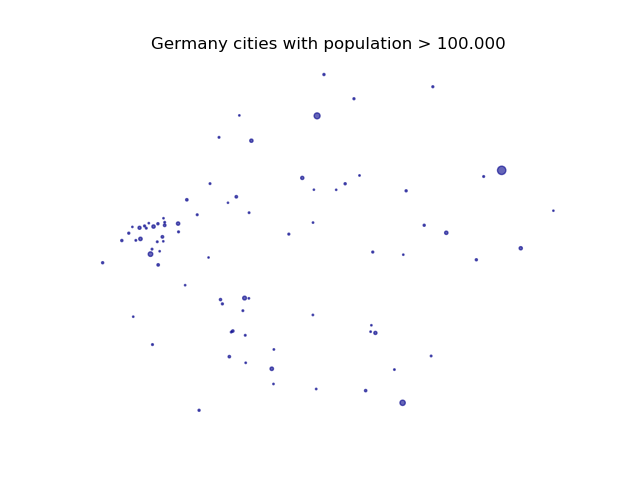
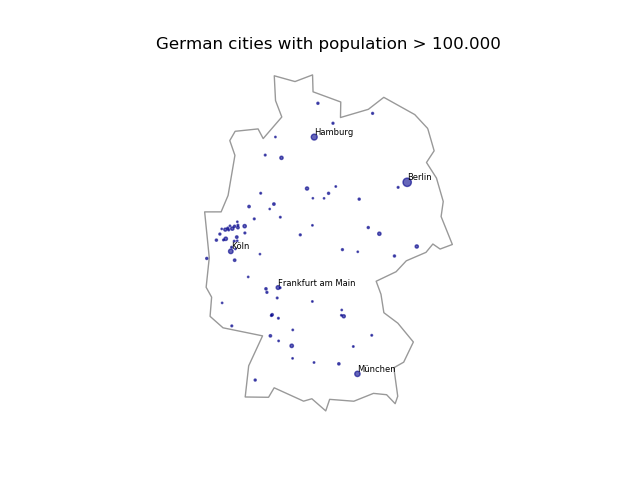
new plot in task 2 + comments

diff --git a/task_2/task_2.py b/task_2/task_2.py
@@ -1,5 +1,5 @@
 """
-Wikipedia's Table into pandas's dataframe and some visualization
+Wikipedia's Table into pandas's dataframe + geopandas's geodataframe and some visualization
 Taras Dubrava
 18.05.2020
 """
@@ -7,6 +7,7 @@ Taras Dubrava
 # imports
 import requests
 import pandas as pd
+import geopandas as gpd
 import matplotlib.pyplot as plt
 from bs4 import BeautifulSoup
 from geopy.geocoders import Nominatim
@@ -49,7 +50,7 @@ df['Bundesland'] = df['Bundesland'].apply(lambda x: ''.join(set(x.split(' '))))
 df['Name'] = df['Name'].str.replace(r'[\u00AD\d,-]+', '').str.strip()
 
 # geocoding addresses with Nominatim geocoder
-geolocator = Nominatim(user_agent='my-application', timeout=1)
+geolocator = Nominatim(user_agent='my-app', timeout=1)
 
 def geocoding(add):
     try:
@@ -64,8 +65,44 @@ df['lon'] = df['Name'].apply(lambda x: geocoding(x)[1])
 
 df['Bev2018'] = df['Bev2018'].str.replace('.', '').apply(pd.to_numeric)
 
-# visualization of data
-df[df['Bev2018'] > 100000].plot(kind="scatter", x="lon", y="lat", s=df['Bev2018']/100000, color='DarkBlue', marker="o", alpha=0.6)
-plt.title('Germany cities with population > 100.000')
+# Exporting dataframe as a csv file (when needed)
+# df.to_csv(r'D:\bayreuth\task_2\task_2_temporal.csv', index=False)
+# Reading a csv file as dataframe (when needed)
+# df = pd.read_csv('task_2_temporal.csv')
+
+# converting pandas's DataFrame into geopandas's GeoDataFrame
+gdf = gpd.GeoDataFrame(df, geometry=gpd.points_from_xy(df.lon, df.lat), crs="EPSG:4326")
+# getting a dataset from geopandas
+world = gpd.read_file(gpd.datasets.get_path('naturalearth_lowres'))
+
+# plotting germany
+ax = world[world.name == 'Germany'].plot(
+    color='white',
+    edgecolor='black',
+    alpha=0.4)
+
+# plotting data
+gdf[gdf['Bev2018'] > 100000].plot(ax=ax,
+                                  markersize=gdf['Bev2018']/100000,
+                                  color='DarkBlue',
+                                  marker="o",
+                                  alpha=0.6,
+                                  legend=True
+                                  )
+
+# labelling
+gdf = gdf.nlargest(5, ['Bev2018'])
+texts = []
+for x, y, label in zip(gdf.geometry.x, gdf.geometry.y, gdf["Name"]):
+    texts.append(plt.text(x,
+                          y,
+                          label,
+                          fontsize = 6,
+                          fontfamily='sans-serif',
+                          fontstyle='normal',
+                          horizontalalignment='left',
+                          verticalalignment='bottom'))
+
+plt.title('German cities with population > 100.000')
 plt.axis('off')
 plt.show()

diff --git a/task_2/test.py b/task_2/test.py
@@ -1,0 +1,9 @@
+import geopandas as gpd
+
+world = gpd.read_file(gpd.datasets.get_path('naturalearth_lowres'))
+list = world.name.to_list()
+for i in list:
+    if i.startswith("Si"):
+        print(i)
+singapore = world[world.name == 'Singapore']
+boundaries = singapore['geometry']

diff --git a/README.md b/README.md
@@ -53,13 +53,14 @@
 2. Simple web scraping of a page (related to geography) and its visualization.</br>
    *Used Data:*
      - Wikipedia Article "Liste der Großstädte in Deutschland",</br>https://de.wikipedia.org/wiki/Liste_der_Gro%C3%9Fst%C3%A4dte_in_Deutschland
+	 - GeoPandas Dataset 'naturalearth_lowres'
 
    *Used Software:*
-     - Python 3 (requests, beautifulsoup, pandas, geopy, matplotlib)
+     - Python 3 (requests, beautifulsoup, pandas, geopandas, geopy, matplotlib)
 	 - PyCharm 2019.2.3 (Community Edition)
 	 - Notepad++
    
-   *Output:* [scatter_plot.PNG](https://imgur.com/a/WC15HNv)
+   *Output:* [scatter_plot.PNG](https://imgur.com/a/NJQ8X3S)
    
 3. Import data from Wikipedia article into an appropriate package of your choice. Create a map that shows the location and magnitude of the earthquakes.</br>
    *Used Data:*
